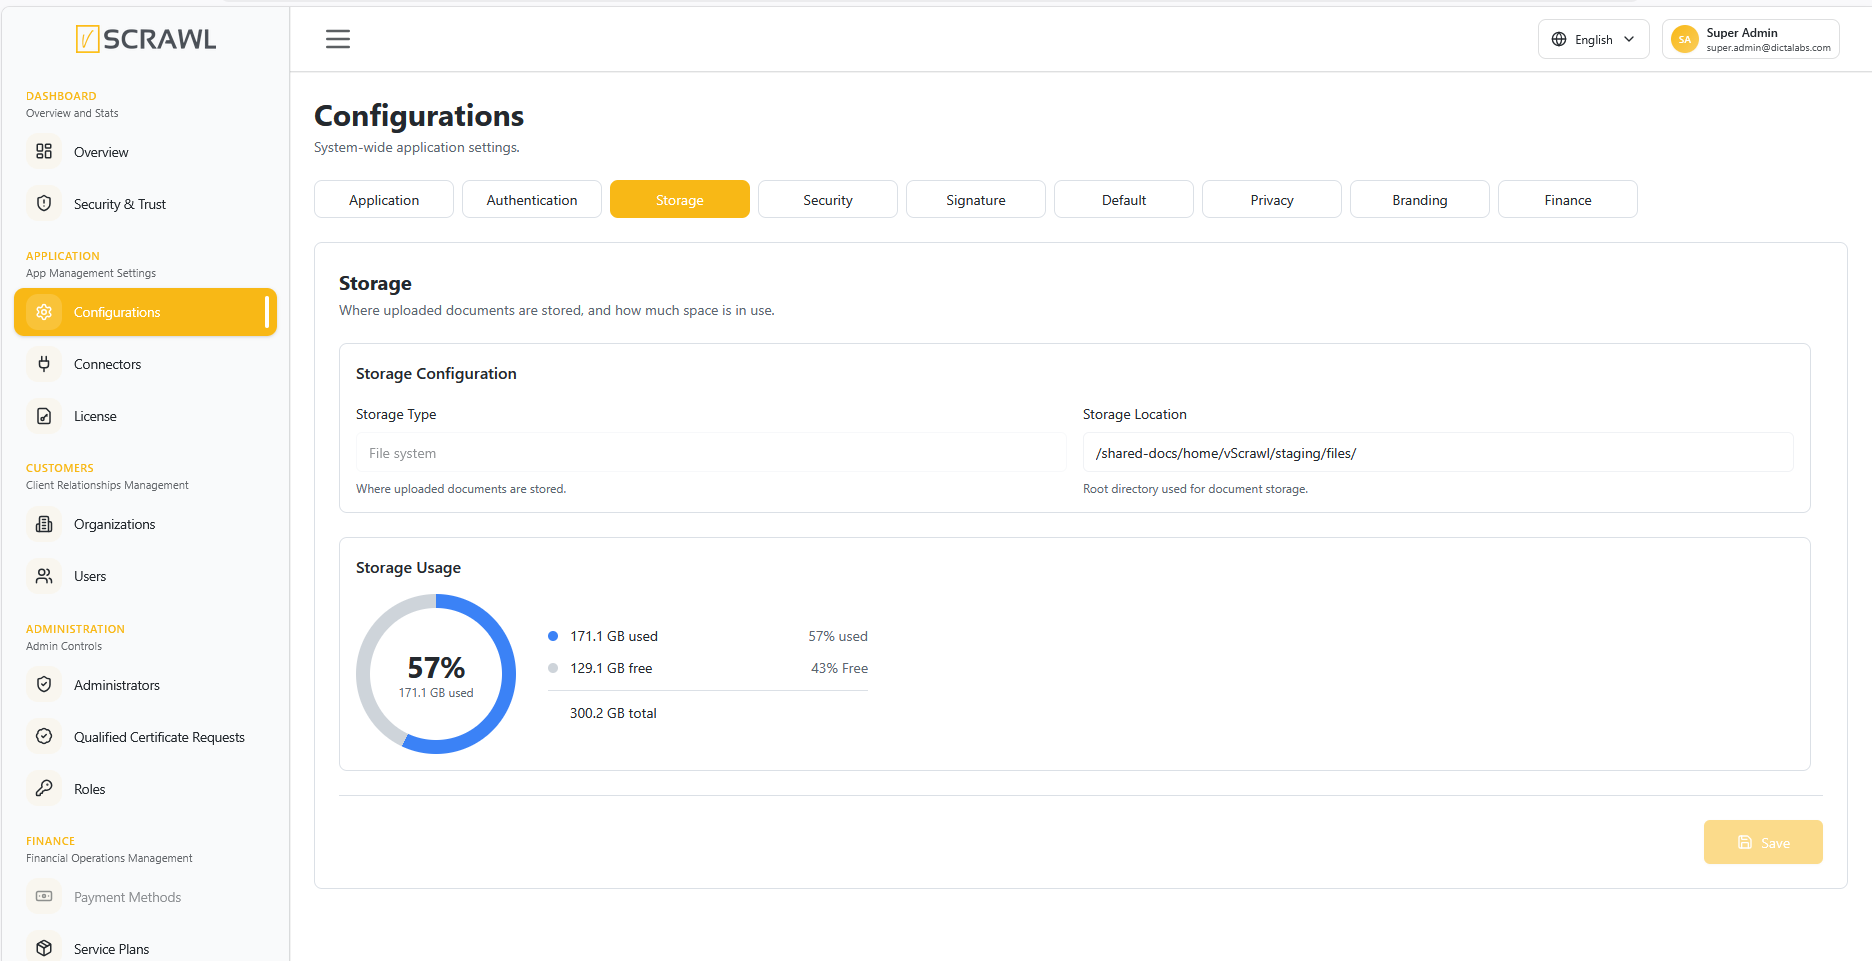
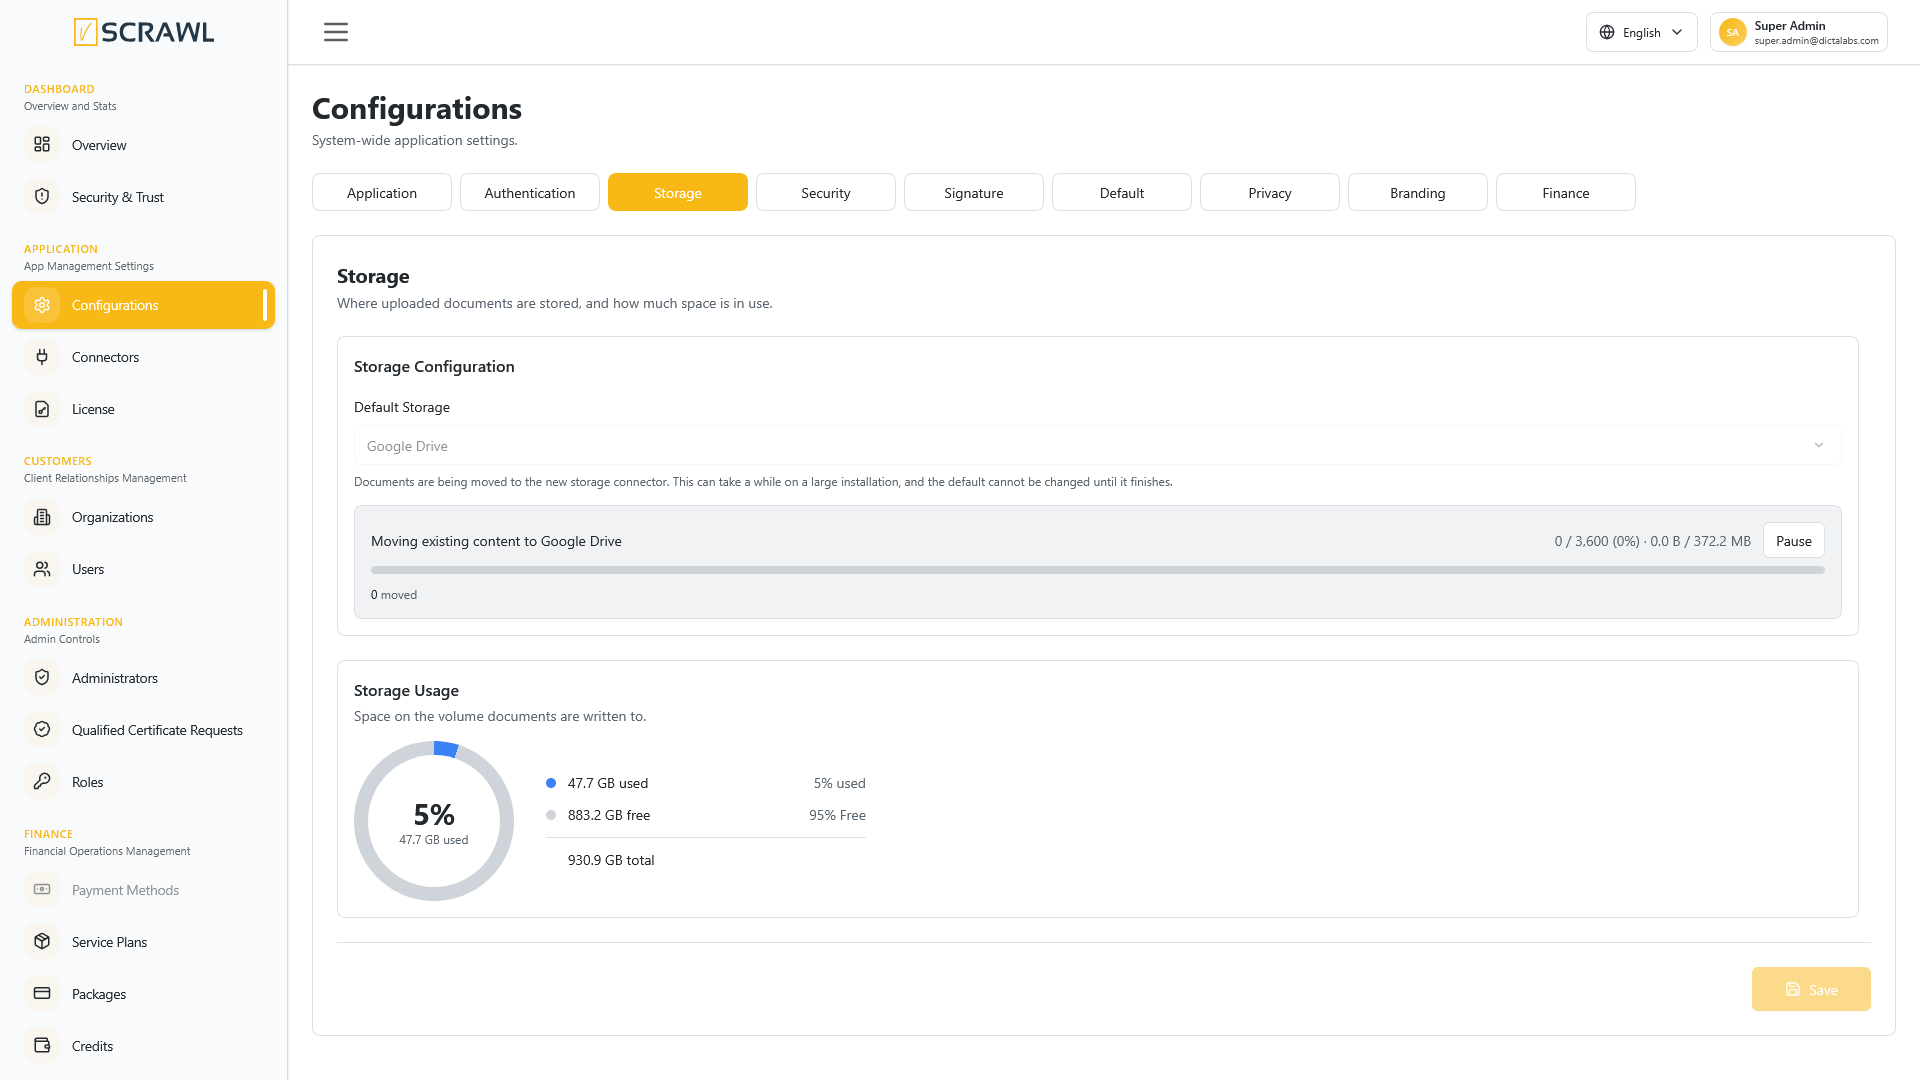
google drive and dropbox connecter

diff --git a/docs/other_admin_operations/storage_settings.md b/docs/other_admin_operations/storage_settings.md
@@ -1,23 +1,65 @@
-# Storage  
+# Storage
 
-The **Storage** screen allows administrators to configure document storage and retrieval settings for vScrawl.  
+The **Storage** screen decides where uploaded documents are kept, and shows how much room is left where they are kept.
 
 ![Storage Settings](../images/storage-settings.png)
 
-## Storage Configuration  
-- **Storage Type** – The storage option where the documents are saved. Currently only **File System** is supported.  
-- **Storage Location** – The absolute URI of the folder used to store and retrieve the documents.  
+## Storage Configuration
 
-Click **Save** to apply the changes.
+- **Default Storage** – the connector documents are written to.
 
-## Usage  
-The **Usage** panel reports how much disk space is left on the server, so that an administrator can act before it fills up. It shows:
+Every option in this dropdown is a **Storage connector**, including the platform's own volume, which is seeded as a connector named **Server Storage**. There is no separate storage type or path on this screen any more: where a place is and how it is reached — its directory, its OAuth application, its folder — all belong to the connector. See [Add Connectors](../connectors/add_connectors.md#storage-connectors) for how to add one.
 
-- A **donut chart** with the percentage of the volume that is already in use.
-- **Used**, **Free** and **Total** space, in GB.
-- A bar underneath repeating the same proportion at a glance.
+Only connectors that are **Active** and whose last health check passed are offered. A connector that has been switched off, or that failed its last check, is not something documents should be sent to.
 
-The donut and the bar change colour as the volume fills up, so the state is visible without reading the numbers:
+### Changing the default moves what is already stored
+
+Changing this setting does two things, not one:
+
+1. New documents are written to the connector you chose.
+2. **Everything already stored — documents and templates — is moved to it in the background.**
+
+A default that only applied to future documents would leave the installation reading from two places indefinitely, which is never what choosing a new storage was meant to mean.
+
+Because this is a large operation, the screen asks first:
+
+> **Move everything to Google Drive?**
+> New documents will be stored there, and everything already stored — documents and templates — will be moved across in the background. On a large installation this can take a while. The default storage cannot be changed again until the move finishes.
+
+Select **Change and move** to start, or **Cancel** to leave the setting as it was.
+
+## While content is being moved
+
+A progress panel appears under the selector and stays until the move finishes.
+
+- **How far along** – items completed out of the total, as a percentage, and the same figure in **size**: `1,508 / 31,455 (5%) · 684.9 MB / 3.4 GB`. Item counts alone can mislead — an installation with many records but little content reads as far bigger than it is.
+- **moved** – content copied to the new connector, verified, and removed from the old one.
+- **skipped (no content found)** – the record exists but there is no file behind it on the old connector. Nothing was lost and nothing was moved. A large number here is worth investigating: it means that many records point at content that is not there, and it was true before the move started.
+- **retrying** – the item failed for a reason that was not its own, such as a service restarting mid-move, and will be tried again shortly. It is not counted as finished, so the bar cannot reach 100% while work is outstanding.
+- **failed** – tried the maximum number of times and could not be moved. The content is untouched and still on the old connector.
+
+### Pause and Resume
+
+Use **Pause** to stop the move — during a busy period, or because the wrong connector was chosen. Pausing is safe at any moment: each document is copied, verified, and only then removed from the old place, so a document is always in one place or the other and never in neither.
+
+**Resume** starts it again from where it stopped.
+
+### Choosing a different connector after pausing
+
+While the move is paused, the **Default Storage** selector is unlocked so a different connector can be chosen. The paused move is discarded and a new one starts **from wherever the content is now** — including anything already moved to the connector you are moving away from, which is emptied first.
+
+This is the way out of a wrong choice. It can be done more than once.
+
+While the move is **running**, the selector is locked. The rule is enforced by the server as well as the screen, so it cannot be worked around by calling the API directly: a move carrying documents to one connector while new documents start going to a third leaves nobody able to say where anything is meant to be.
+
+## Storage Usage
+
+The **Storage Usage** panel reports space where the **currently selected connector** keeps documents, so the figures change when the default storage changes.
+
+- A **donut chart** with the proportion in use.
+- **Used**, **Free** and **Total** space, scaled to a sensible unit — MB for a fraction of a gigabyte, TB for a large volume.
+
+The donut changes colour as the space fills up, so the state is visible without reading the numbers:
 
 | Used space | Colour |
 | --- | --- |
@@ -25,4 +67,6 @@ The donut and the bar change colour as the volume fills up, so the state is visi
 | Above 60% and up to 85% | Amber — keep an eye on it |
 | Above 85% | Red — free up space or extend the volume |
 
-> **Note:** The figures describe the server's root file system as a whole, not only the documents stored by vScrawl. If the Storage Location is mounted on a separate volume, check that volume on the server itself.
+> **Note:** What the figures describe depends on the connector. For **Server Storage** it is the volume the platform runs on. For **Google Drive** or **Dropbox** it is the whole connected account — including whatever else lives in that account, not only the documents vScrawl put there. The panel says which account it is reporting on.
+
+> Some providers cannot report usage at all. A Dropbox connector authorised before the `account_info.read` permission was granted to its application is one such case; the panel simply omits the figures rather than showing zero.

diff --git a/docs/connectors/storage_provider_setup.md b/docs/connectors/storage_provider_setup.md
@@ -1,0 +1,104 @@
+# Set Up Google Drive and Dropbox
+
+Before a Google Drive or Dropbox storage connector can be added, an application has to exist on the provider's side for vScrawl to authorise against. This page covers the parts that are specific to vScrawl — which options matter and which exact values to enter. Creating the account or project itself is the provider's own process, and is linked where it starts.
+
+Each connector carries its own application. There is no shared, installation-wide one, so two connectors can sit in two entirely different Google projects or Dropbox apps.
+
+---
+
+## Work out your Redirect URI first
+
+Both providers need to be told, in advance, exactly where to send the browser back to after consent. Get this wrong and consent fails at the very last step, after the user has already approved.
+
+```
+https://<your-api-host>/admin/v1/storage/oauth/callback
+```
+
+Two things to check:
+
+- It is the **API host**, not the admin console's. The console and the API are usually different hostnames — the callback belongs to the API.
+- It must match **character for character** on both sides: what you register with the provider, and what you type into the connector's **OAuth Redirect URI** field. The provider checks it once when consent starts and again during the token exchange, so a trailing slash or `http` instead of `https` is enough to fail.
+
+---
+
+## Google Drive
+
+### 1. Create an OAuth client
+
+In the [Google Cloud console](https://console.cloud.google.com/), select or create a project, then:
+
+1. Enable the **Google Drive API** for the project.
+2. Configure the **OAuth consent screen**. Choose **Internal** if everyone using it belongs to your Google Workspace organisation; otherwise **External**.
+3. Under **Credentials**, create an **OAuth client ID** of type **Web application**.
+4. Add your Redirect URI under **Authorised redirect URIs**.
+
+Copy the **Client ID** and **Client secret**.
+
+### 2. Scope and verification
+
+vScrawl asks for one scope only:
+
+```
+https://www.googleapis.com/auth/drive.file
+```
+
+This reaches **only the files the application itself created** — nothing else in the connected account is visible to vScrawl. It is deliberately narrow: the full Drive scope is a restricted scope and would require Google's security assessment before the application could be published.
+
+A consequence worth knowing: because the application can only see what it made, the folder vScrawl stores in is **created during consent**. You cannot point a connector at a folder that already exists in the account.
+
+### 3. Add the connector
+
+In vScrawl, add a Storage connector with Provider **Google Drive**, fill in Client ID, Client Secret and the OAuth Redirect URI, then press **Connect Account** and sign in as the account that should hold the documents.
+
+Consent returns a refresh token and the created folder's id, and both are filled in for you.
+
+---
+
+## Dropbox
+
+### 1. Create an app
+
+In the [Dropbox App Console](https://www.dropbox.com/developers/apps), **Create app**:
+
+1. Choose **Scoped access**.
+2. For access type, choose **App folder** — the app is then confined to its own folder under `/Apps` and cannot see the rest of the account. Choose **Full Dropbox** only if you have a reason to.
+3. Name the app.
+
+Copy the **App key** and **App secret** from the app's Settings tab, and add your Redirect URI under **OAuth 2 → Redirect URIs**.
+
+### 2. Enable permissions
+
+On the app's **Permissions** tab, enable at least:
+
+| Permission | Why |
+| --- | --- |
+| `files.content.write` | Storing documents |
+| `files.content.read` | Reading them back |
+| `account_info.read` | Reporting space used on the Storage screen |
+
+**Enable them before connecting the account.** vScrawl deliberately sends no `scope` parameter when it authorises, so Dropbox grants exactly what the app has enabled at that moment — which means nothing breaks when you change permissions later, but a token issued before a permission was enabled does not carry it.
+
+If you enable `account_info.read` after connecting, press **Connect Account** again to re-authorise. Until you do, the Storage screen simply omits the usage figures rather than showing zero.
+
+### 3. Add the connector
+
+Add a Storage connector with Provider **Dropbox**, fill in App Key, App Secret and the OAuth Redirect URI, then press **Connect Account**.
+
+After connecting, the **Root Path** field appears, defaulting to `/vscrawl`. With an App folder app, that path sits inside the app's own folder.
+
+---
+
+## After connecting
+
+Press **Test Connection** on the connector. It writes a small file, reads it back and deletes it, and reports the outcome and how long it took. The same check decides whether the connector is offered as a **Default Storage** at all, so a connector that fails here will not appear in that dropdown.
+
+---
+
+## If something fails
+
+| What you see | What it usually means |
+| --- | --- |
+| `redirect_uri_mismatch`, or consent fails on return | The Redirect URI registered with the provider is not identical to the one on the connector. Compare them character for character, including scheme and any trailing slash. |
+| Consent succeeds but the connector still will not save | Consent did not return a refresh token. For Google this happens when the account has consented before; vScrawl sends `prompt=consent` to force a fresh one, so retry Connect Account. |
+| Storage Usage shows no figures for Dropbox | The token was issued before `account_info.read` was enabled. Enable it, then Connect Account again. |
+| Test Connection fails with an authorisation error | The App Key or Client ID was changed after connecting. The stored token belongs to the old credentials — reconnect the account. |

diff --git a/docs/connectors/add_connectors.md b/docs/connectors/add_connectors.md
@@ -32,6 +32,7 @@ Click on the **Add Connector** button to open the connector creation screen.
   - **Certification Authority**
   - **Auth**
   - **Timestamp**
+  - **Storage**
 
 ![Purpose Dropdown](../images/connector-purpose-dropdown.png)
 
@@ -276,6 +277,63 @@ A Timestamp connector is only used when the signature is timestamped. After addi
    - **Example Configuration Screen**:
 
      ![TSA Timestamp Connector](../images/connector-tsa-timestamp.png)
+
+### **Storage Connectors**
+These connectors decide **where document content is kept**. Select **Storage** as the Purpose, then choose a Provider.
+
+Every storage location is a connector, including the platform's own volume — there is no separate "storage type" setting. After adding one here, select it as the **Default Storage** on the [Storage](../other_admin_operations/storage_settings.md) page.
+
+> Google Drive and Dropbox connectors need an application registered with the provider first. See [Set Up Google Drive and Dropbox](storage_provider_setup.md) for what to create and which exact values to use.
+
+> **Important:** Changing the Default Storage does not only affect new documents. Everything already stored is moved to the new connector in the background. Read [Changing the default moves what is already stored](../other_admin_operations/storage_settings.md#changing-the-default-moves-what-is-already-stored) before switching.
+
+####Server Storage
+   Documents are kept on the volume the platform itself runs on. This connector is created for you when vScrawl is installed, and is the default until you choose otherwise.
+
+   - **Configuration**:
+     - **Storage Location** — the root directory documents are written under. Leave it blank to use the installation's configured path.
+
+   Adding a second Server Storage connector with a different Storage Location lets documents be moved onto a different volume.
+
+####Google Drive
+   Documents are kept in a folder of a connected Google account.
+
+   - **Configuration**:
+     - **Client ID** and **Client Secret** — the OAuth client of this connector's own Google Cloud project. Both are required; there is no shared application to fall back to, so two connectors can sit in two entirely different projects.
+     - **OAuth Redirect URI** — this platform's storage callback endpoint, on the **API host** rather than the admin console's. Register this exact string with the connector's Google application: the provider checks it again during the token exchange, so one character of difference fails.
+     - **Refresh Token** — written by Connect Account. A token only exists once Google has issued one, so it is not typed in.
+     - **Root Folder ID** — appears only after the account is connected. Consent creates the folder and records it here.
+
+   - **Example Configuration Screen**:
+
+     ![Google Drive Storage Connector](../images/storage-google-drive-connector.png)
+
+####Dropbox
+   Documents are kept in a folder of a connected Dropbox account.
+
+   - **Configuration**:
+     - **App Key** and **App Secret** — from this connector's own scoped Dropbox app. Required, for the same reason as above.
+     - **OAuth Redirect URI** — as for Google Drive, registered in the Dropbox App Console.
+     - **Refresh Token** — written by Connect Account.
+     - **Root Path** — appears only after the account is connected. Defaults to `/vscrawl`.
+     - Grant the app the `account_info.read` permission **before** connecting if you want the Storage Usage figures reported. A token issued before that permission was granted cannot read them, and the panel simply omits the figures.
+
+   - **Example Configuration Screen**:
+
+     ![Dropbox Storage Connector](../images/storage-dropbox-connector.png)
+
+---
+
+### Connect Account and Test Connection
+
+Google Drive and Dropbox connectors need two things that credentials alone cannot provide: a **refresh token**, which only exists once the provider has issued one, and the **folder** to store in, which is created during the same consent.
+
+- **Connect Account**, in the configuration section's header, creates or saves the connector, opens the provider's consent screen, and stores what comes back — the refresh token and the folder.
+- Until it has been run, the dialog's **Add**/**Update** button stays disabled and the footer reads *"Connect the account to save these credentials."* A connector holding credentials but no token cannot store anything, and saving one would look successful while being unusable.
+- Editing the Client ID, Client Secret, App Key or App Secret afterwards disables saving again until the account is reconnected: the stored token was issued to the old credentials and no longer belongs to the new ones.
+- **Test Connection** proves the connector works end to end: it writes a small file, reads it back, and deletes it. The result and the time it took are shown, and are also what the Default Storage dropdown uses to decide whether to offer the connector at all.
+
+> **Note:** A storage connector that still holds documents or templates **cannot be deleted**, and neither can the one currently set as the Default Storage. Deleting a connector does not delete the content — it deletes the only record of where the content is, and every read of it fails from that moment with nothing left to point at. Move the content elsewhere first by changing the Default Storage and letting the move finish.
 
 ---
 

diff --git a/docs/connectors/configure_connectors.md b/docs/connectors/configure_connectors.md
@@ -10,6 +10,7 @@ In this screen, the administrator can select the default connectors for:
 
 - **Default OnBoarding Connector**: Select the default onboarding connector for remote signatures. Only Sign connectors using the **eTugra Middleware** or **Crypto Engine** providers appear in this dropdown.
 - **Default CA Connector**: Select the default Certification Authority connector, from any configured **EJBCA**, **DictaLabs CA** or **Microsoft CA** connector.
+- **Default Storage**: chosen on its own screen rather than here, because changing it also moves everything already stored. See [Storage](../other_admin_operations/storage_settings.md).
 - **Power Survey Recipient Limit**: Set the maximum number of recipients allowed in a single Power Survey (numbers only). Leave blank to use the application default.
 
 ![Power Survey Recipient Limit](../images/admin-default-settings-power-survey-limit.png)
